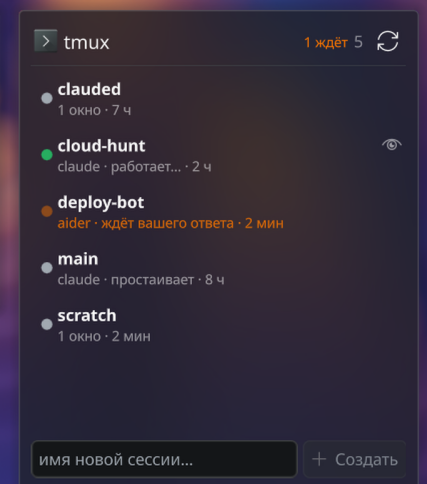
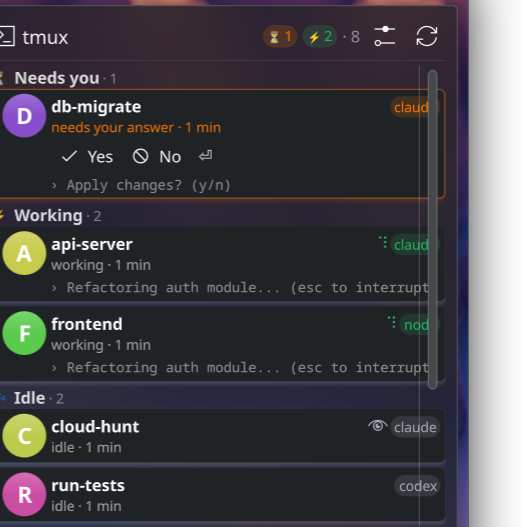
Release prep: refresh README, CHANGELOG, hero screenshot
README rewritten for the final feature set (quick-reply, terminal
auto-detection, in-widget settings, Mission-Control UI) with CI/license
badges; CHANGELOG lists terminals + settings; new English hero screenshot
showing the cards, quick-reply buttons and status groups.

diff --git a/README.md b/README.md
@@ -1,39 +1,44 @@
 # TmuxPad
 
-**Your AI coding agents, on your desktop.** A KDE Plasma 6 widget that watches tmux sessions and tells you which of your agents is working, which one is waiting for your answer — and lets you jump in with one click.
+**Your AI coding agents, on your desktop.** A KDE Plasma 6 widget that watches your tmux sessions and shows, at a glance, which agent is working, which one is waiting for your answer, and which is idle — and lets you reply or jump in without hunting through terminals.
+
+[![CI](https://github.com/VladislavTsytrikov/tmuxpad/actions/workflows/ci.yml/badge.svg)](https://github.com/VladislavTsytrikov/tmuxpad/actions/workflows/ci.yml)
+[![License: MIT](https://img.shields.io/badge/License-MIT-yellow.svg)](LICENSE)
 
 ![TmuxPad widget](screenshots/hero.png)
 
-In the panel it collapses to a single icon with a badge — **orange means an agent is waiting for you**, blue is the number of running agents.
+In the panel it collapses to a single icon with a badge that **pulses orange when an agent is waiting for you**.
 
 ## Why
 
-If you run Claude Code, codex, aider or any other coding agent in tmux, you know the drill: you spin up three agents, switch to something else, and twenty minutes later discover that one of them has been sitting on a "Do you want to proceed?" prompt the whole time.
+If you run Claude Code, codex, aider or any other coding agent in tmux, you know the drill: you spin up three agents, switch to something else, and twenty minutes later discover that one of them has been sitting on a *"Do you want to proceed? (y/n)"* prompt the whole time.
 
-TmuxPad fixes that:
+TmuxPad is mission control for your fleet of agents:
 
-- 🟢 **Live status per session** — *working*, *waiting for input*, or *idle*, right on your desktop or panel
-- 🔔 **Desktop notifications** — when an agent stops working and needs your answer, or finishes its task
-- 👀 **Output preview** — peek at the last lines of any session without attaching
-- ⚡ **One-click attach** — opens the session in your terminal of choice
+- 🟢 **Live status per session** — *working*, *waiting for input*, or *idle*, grouped so the ones that need you float to the top
+- ⏳💬 **Quick reply** — answer **y / n / Enter** to a waiting agent straight from the card, no need to attach
+- 🔔 **Desktop notifications** — when an agent stops working and needs you, or finishes its task
+- 👀 **Glanceable output** — the last line each agent printed, right on the card; expand for a full preview
+- ⏱️ **Elapsed time** — "waiting 12 min" so you know who's been blocked longest
+- ⚡ **One-click attach** — opens the session in your terminal of choice (auto-detected)
 - ➕ **Create & kill sessions** from the widget
-- 🎛️ **Panel mode** — compact icon with a badge: orange means someone needs you
+- 🎛️ **Panel mode** — compact icon with an attention badge
 
-It is also a perfectly good plain tmux session manager — sessions without an agent are listed too.
+It's also a perfectly good plain tmux session manager — sessions without an agent are listed under *Terminals*.
 
 ## How status detection works
 
-TmuxPad polls tmux once every 3 seconds (configurable), in a single batched `tmux` call:
+TmuxPad polls tmux every few seconds (configurable) in a single batched call:
 
-1. **Pane title spinner.** Claude Code animates a Braille spinner (`⠋⠙⠹…`) in the pane title while busy. If the title starts with one — the agent is **working**. This is set via an OSC escape, so it works regardless of your tmux `set-titles` / `allow-rename` settings.
+1. **Pane title spinner.** Claude Code animates a Braille spinner (`⠋⠙⠹…`) in the pane title while busy. If the title starts with one, the agent is **working** — set via an OSC escape, so it works regardless of your tmux `set-titles` / `allow-rename` settings.
 2. **Content patterns.** The last visible lines of each session are matched against configurable regex lists:
    - *waiting*: `Do you want`, `❯ 1.`, `(y/n)`, `[Y/n]`, `Press Enter to`, …
    - *working*: `esc to interrupt`, the Claude Code progress line, …
-3. **Agent detection.** A session counts as an agent session when its foreground process is one of the known tools (`claude`, `codex`, `aider`, `opencode`, `gemini`, `goose`, `amp`, `crush`, `cursor-agent` — editable), **or** when it is launched through a runtime like `node cli.js` / `python -m aider` (the command line of the pane's process tree is inspected, so wrapped installs are recognised too).
+3. **Agent detection.** A session counts as an agent when its foreground process is a known tool (`claude`, `codex`, `aider`, `opencode`, `gemini`, `goose`, `amp`, `crush`, `cursor-agent` — editable), **or** when it's launched through a runtime like `node cli.js` / `python -m aider`. The pane's process tree is read from `/proc` (portable, no procps-only flags), so wrapped installs are recognised too.
 
-All three lists live in widget settings (**AI Agents** page) — when your favourite tool changes its UI or a new one appears, you fix it with a one-line regex instead of waiting for a release.
+All three lists live in the widget's settings — when a tool changes its UI or a new one appears, you fix it with a one-line regex instead of waiting for a release.
 
-Notifications fire only on transitions out of *working* and only for **detached** sessions — if you are attached, you already see what's happening.
+Notifications fire only on transitions out of *working*, and only for **detached** sessions — if you're attached, you already see what's happening.
 
 ## Install
 
@@ -46,22 +51,21 @@ Notifications fire only on transitions out of *working* and only for **detached*
 ```bash
 git clone https://github.com/VladislavTsytrikov/tmuxpad.git
 cd tmuxpad
-make install        # installs the widget + translations for current user
+make install        # installs the widget + translations for the current user
 ```
 
-Then add **TmuxPad** to your desktop or panel. To update later: `git pull && make upgrade`.
+Then add **TmuxPad** to your desktop or panel. Update later with `git pull && make install`.
 
-Requirements: KDE Plasma 6, tmux. Translations need `gettext` at build time.
+Requirements: KDE Plasma 6, tmux. Building translations needs `gettext`.
 
-## Configuration
+## Settings
 
-| Setting | Default | |
-|---|---|---|
-| Attach command | `konsole -e tmux attach -t %1` | `%1` = session name; works with wezterm, ghostty, alacritty, … |
-| Refresh interval | 3 s | |
-| Preview lines | 12 | also used for status detection depth |
-| Notifications | on | waiting / finished, separately |
-| Agent processes & patterns | see above | **AI Agents** settings page |
+Open the settings straight from the popup (the **gear** slides a panel in), or right-click → Configure for the system dialog.
+
+- **Terminal** — TmuxPad scans your machine for installed terminals (Konsole, Ghostty, kitty, WezTerm, Alacritty, foot, GNOME Terminal, Tilix, …) and lets you pick one from a dropdown, with a live preview of the launch command. *Automatic* just uses the first one it finds — zero config. *Custom command* is there for anything exotic.
+- **Updates** — refresh interval and how many output lines to capture.
+- **Notifications** — toggle the *waiting* and *finished* notifications.
+- **AI Agents** — the process names and the *working* / *waiting* regex patterns.
 
 ## Compatibility
 
@@ -71,17 +75,17 @@ Requirements: KDE Plasma 6, tmux. Translations need `gettext` at build time.
 | **tmux 1.9+** | `display-message`, `capture-pane`, `pane_pid` are long-standing |
 | **Claude Code** | full status detection out of the box |
 | **aider / codex / opencode / others** | recognised as agents; *waiting* detection works via the shared prompts, *working* may need a pattern tuned to that tool's UI (one line in settings) |
-| Terminal emulator | any — set the attach command for konsole / wezterm / ghostty / alacritty / kitty / … |
+| Terminal emulator | auto-detected; ~18 known, plus a custom command |
 
 Known limits: only the **active pane of each session's active window** is inspected (an agent buried in a background window shows as idle), and a desktop-placed widget pauses its timer while the desktop is fully covered — **for always-on background notifications, put TmuxPad in a panel**, where the timer never sleeps. Notifications need `org.kde.notification` (present on standard Plasma installs); without it the widget still works, just silently.
 
 ## Roadmap
 
-- **Quick reply** — approve an agent's permission prompt right from the widget (`tmux send-keys`)
-- Per-window status for multi-window sessions
+- Per-window status for multi-window sessions (the orchestrator pattern)
+- cwd + git branch on each card
 - More built-in detection profiles as agent CLIs evolve
 
-Issues and PRs welcome — especially detection patterns for tools you use.
+Issues and PRs welcome — especially [detection patterns](.github/ISSUE_TEMPLATE/detection_pattern.md) for tools you use. See [CONTRIBUTING](CONTRIBUTING.md).
 
 ## Related
 
@@ -89,4 +93,4 @@ Issues and PRs welcome — especially detection patterns for tools you use.
 
 ## License
 
-[MIT](LICENSE)
+[MIT](LICENSE) © Vlad Tsytrikov

diff --git a/CHANGELOG.md b/CHANGELOG.md
@@ -19,6 +19,10 @@ First public release.
 - Output preview for any session without attaching
 - Compact panel representation with pulsing attention badge,
   `NeedsAttention` panel status when an agent waits for input
+- Terminal auto-detection — scans for ~18 known terminals and offers a picker
+  with a live command preview; "Automatic" needs no configuration
+- In-widget settings panel in the same style (gear in the popup), plus the
+  system config dialog as a fallback
 - Attach / create / kill sessions
 - Stable ListModel with diff-by-name updates, so cards (and their dialogs /
   open previews) survive every poll without flicker